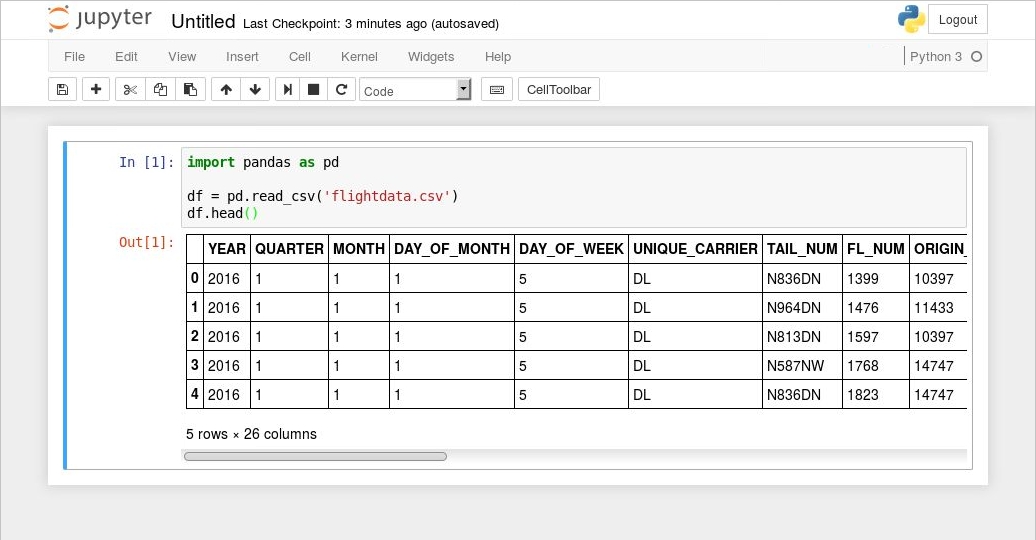
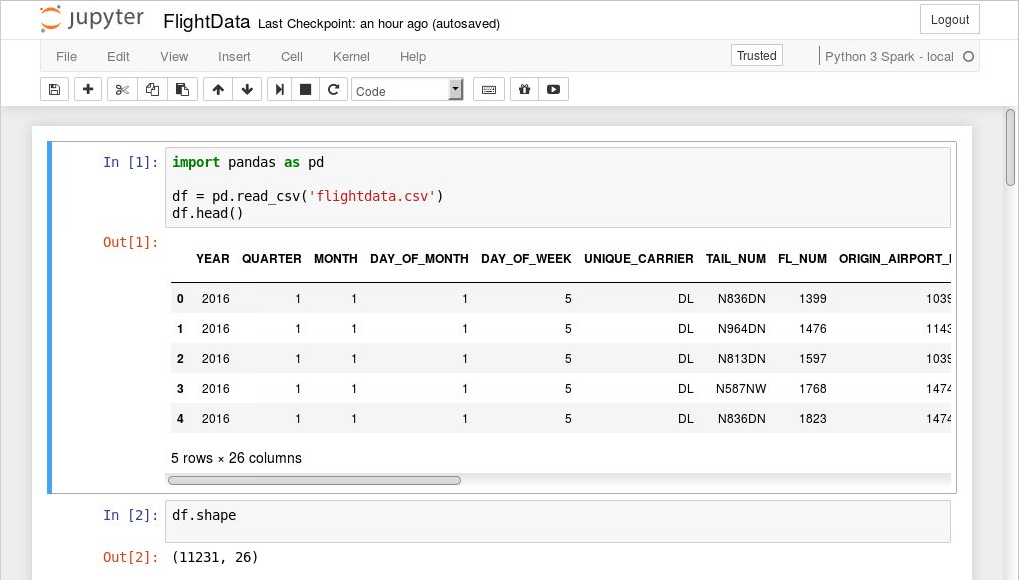
Updated Lab 4 in 200 series

diff --git a/200 - Machine Learning in Python/4 - Visualize/readme.md b/200 - Machine Learning in Python/4 - Visualize/readme.md
@@ -3,7 +3,7 @@
 <a name="Overview"></a>
 ## Overview ##
 
-Now that you that have trained a machine-learning model to perform predictive analytics, it's time to put it to work. In this lab, the final one in the series, you will write a function that uses the machine-learning model you built in the previous lab to predict whether a flight will arrive on time or late. And you will use [Matplotlib](https://matplotlib.org/), the popular plotting and charting library for Python, to visualize the results.
+Now that you that have trained a machine-learning model to perform predictive analytics, it's time to put it to work. In this lab, the final one in the series, you will write a function that uses the machine-learning model you built in the [previous lab](../3%20-%20Predict) to predict whether a flight will arrive on time or late. And you will use [Matplotlib](https://matplotlib.org/), the popular plotting and charting library for Python, to visualize the results.
 
 ![](Images/road-map-4.png)
 
@@ -41,21 +41,15 @@ In this exercise, you will import Matplotlib into the Jupyter notebook you have 
 
 1. Return to the Data Science VM that you worked with in the previous lab. If you are not connected to it, use [X2Go](https://wiki.x2go.org/doku.php/download:start) or the Xfce client of your choice to connect to the VM's Ubuntu desktop.
 
-1. Open the Jupyter notebook that you worked with in the previous lab if it isn't already open.
+1. Open the Jupyter notebook that you worked with in the previous lab.
 
-	> An easy way to reopen the notebook is to double-click the Jupyter icon on the desktop. Once Jupyter opens in your browser, click **flights** to navigate to the "flights" directory, and **FlightData.ipynb** to open the notebook.
+	> An easy way to reopen the notebook is to double-click the Jupyter icon on the desktop. Once Jupyter opens in a browser, click **flights** to navigate to the "flights" directory, and **FlightData.ipynb** to open the notebook.
 
 	![The FlightData notebook](Images/dataframe.png)
 
 	_The FlightData notebook_
 
-1. Use the **Cell** -> **Run All** command to run the notebook.
-
-	![Running the notebook](Images/run-all.png)
-
-	_Running the notebook_
-
-1. Add a cell to the notebook. Then add and execute the following statements:
+1. Use the **Cell** -> **Run All** command to run the notebook. Then add a cell to the notebook and execute the following statements:
 
 	```python
 	%matplotlib inline
@@ -127,7 +121,7 @@ The reason you built a machine-learning model is to predict whether a flight wil
 	    return model.predict_proba(pd.DataFrame(input))[0][0]
     ```
 
-	This function takes as input a date and time, an origin airport code, and a destination airport code, and returns a value between 0.0 and 1.0 indicating the probability that the flight will arrive at its destination on time. It uses the machine-learning model you built in the previous lab to compute the probability. And to call the model, it passes a DataFrame containing the input values to ```predict_proba```. The structure of the DataFrame exactly matches the structure of the DataFrame depicted in Exercise 3, Step 3 of Lab 2.
+	This function takes as input a date and time, an origin airport code, and a destination airport code, and returns a value between 0.0 and 1.0 indicating the probability that the flight will arrive at its destination on time. It uses the machine-learning model you built in the previous lab to compute the probability. And to call the model, it passes a DataFrame containing the input values to ```predict_proba```. The structure of the DataFrame exactly matches the structure of the DataFrame depicted in Exercise 3, Step 3 of [Lab 2](../2%20-%20Process).
 
 	Note that dates input to the ```predict_delay``` function use the international date format ```dd/mm/year```.
 
